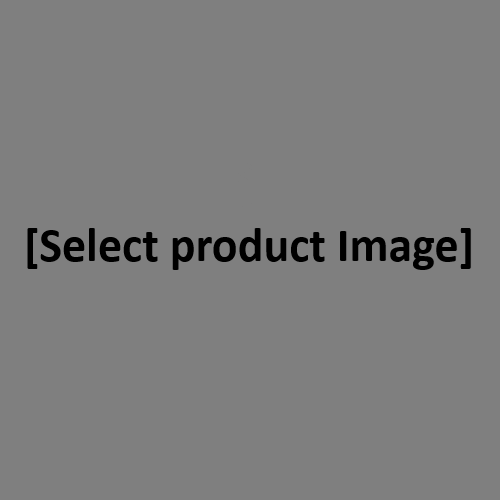
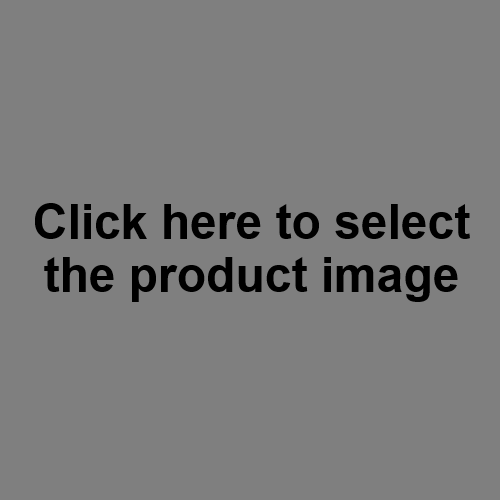
added styles & responsiveness on add-products page

Changed region(s): [[0.03, 0.39, 0.96, 0.6]]

diff --git a/src/components/pages/AddProduct/AddProduct.jsx b/src/components/pages/AddProduct/AddProduct.jsx
@@ -3,10 +3,11 @@ import Placeholder from "./../../assets/Placeholder.png";
 import { warningIcon } from "../../assets/MUI-icons";
 
 // STYLES
+import "./Product.scss";
 
 // LIBRARIES
 import { useNavigate } from "react-router-dom";
-import { Fragment, useState } from "react";
+import { Fragment, useRef, useState } from "react";
 import axios from "axios";
 
 // MISC
@@ -27,12 +28,18 @@ const AddProduct = () => {
 
   // LIBRARY CONSTANTS
   const navigate = useNavigate();
+  const fileInputRef = useRef(null);
+
+  const handleImageClick = () => {
+    fileInputRef.current.click();
+  };
 
   // STATE CONSTANTS
   const [isPending, setIsPending] = useState(false);
   const [nameError, setNameError] = useState("");
   const [priceError, setPriceError] = useState("");
   const [descError, setDescError] = useState("");
+  const [imageError, setImageError] = useState("");
   const { inputValues, handleInputChange, handleImageChange } = useForm({
     name: "",
     description: "",
@@ -61,11 +68,18 @@ const AddProduct = () => {
 
     //if price is empty or is not a number throw error
     if (inputValues.price.trim() === "") {
-      setPriceError("Select the product price");
+      setPriceError("Select the product's price");
     } else if (!priceRegex.test(inputValues.price)) {
       setPriceError("The price must be a number");
     } else {
       setPriceError("");
+    }
+
+    //if image empty throw error
+    if (inputValues.image.trim() === "") {
+      setImageError("You did not select the product image");
+    } else {
+      setImageError("");
     }
 
     //if description is empty throw error
@@ -98,54 +112,80 @@ const AddProduct = () => {
   };
 
   return (
-    <div className="add-product-container">
+    <div className="product-container">
       <h1>Add a new product</h1>
 
       <form onSubmit={handleSubmit}>
-        <div>
-          <span>Product name:</span>
-          <CustomInput type="text" name="name" value={inputValues.name} onChange={handleInputChange} />
+        <div className={nameError ? "product-fields red" : "product-fields"}>
+          <CustomInput
+            type="text"
+            name="name"
+            value={inputValues.name}
+            placeholder="Select the product name"
+            onChange={handleInputChange}
+          />
 
           {nameError && (
-            <div>
+            <div className="product-fields-error">
               {warningIcon} {nameError}
             </div>
           )}
         </div>
 
-        <div>
-          <span>Product image:</span>
+        <div className={imageError ? "product-fields red" : "product-fields"}>
+          <input
+            className="image-input"
+            type="file"
+            name="image"
+            onChange={handleImageChange}
+            style={{ display: "none" }}
+            ref={fileInputRef}
+          />
+
           {inputValues.image ? (
-            <img src={inputValues.image} alt="Selected" style={{ width: 500, height: 500 }} />
+            <img src={inputValues.image} alt="Selected" onClick={handleImageClick} />
           ) : (
-            <img src={Placeholder} alt="Placeholder" style={{ width: 500, height: 500 }} />
+            <img src={Placeholder} alt="Placeholder" onClick={handleImageClick} />
           )}
 
-          <CustomInput type="file" name="image" onChange={handleImageChange} required />
+          {imageError && (
+            <div className="product-fields-error">
+              {warningIcon} {imageError}
+            </div>
+          )}
         </div>
 
-        <div>
-          <span>Product type:</span>
+        <div className="product-fields">
           <CustomDropdown name="type" value={inputValues.type} onChange={handleInputChange} options={productType} />
         </div>
 
-        <div>
-          <span>Product price:</span>
-          <CustomInput type="text" name="price" value={inputValues.price} onChange={handleInputChange} />
+        <div className={priceError ? "product-fields red" : "product-fields"}>
+          <CustomInput
+            type="text"
+            name="price"
+            value={inputValues.price}
+            placeholder="Set the price of the product"
+            onChange={handleInputChange}
+          />
 
           {priceError && (
-            <div>
+            <div className="product-fields-error">
               {warningIcon} {priceError}
             </div>
           )}
         </div>
 
-        <div>
-          <span>Product description:</span>
-          <CustomTextArea type="text" name="description" value={inputValues.description} onChange={handleInputChange} />
+        <div className={descError ? "product-fields red" : "product-fields"}>
+          <CustomTextArea
+            type="text"
+            name="description"
+            value={inputValues.description}
+            placeholder="Enter the full product description, specifications and details"
+            onChange={handleInputChange}
+          />
 
           {descError && (
-            <div>
+            <div className="product-fields-error">
               {warningIcon} {descError}
             </div>
           )}
@@ -157,7 +197,7 @@ const AddProduct = () => {
           <Fragment>
             <CustomButton type="submit" name="Add product" />
 
-            <CustomButton type="button" name="Cancel" onClick={() => navigate("/")} />
+            <CustomButton type="button" name="Cancel" className="button-red" onClick={() => navigate("/")} />
           </Fragment>
         )}
       </form>

diff --git a/src/components/pages/AddProduct/Product.scss b/src/components/pages/AddProduct/Product.scss
@@ -1,0 +1,137 @@
+@import "../../../index.scss";
+
+.product-container {
+  padding: 16px;
+  color: $primary-white;
+  display: flex;
+  flex-direction: column;
+  gap: 16px;
+
+  h1 {
+    font-weight: normal;
+    text-align: center;
+  }
+
+  form {
+    display: flex;
+    flex-direction: column;
+    align-items: center;
+    gap: 24px;
+
+    .product-fields {
+      width: 100%;
+      display: flex;
+      flex-direction: column;
+      align-items: center;
+      gap: 4px;
+
+      img {
+        width: 500px;
+        height: 500px;
+        border-radius: 16px;
+        cursor: pointer;
+      }
+
+      input,
+      textarea,
+      select {
+        width: 60%;
+        background-color: $background-color;
+        color: $primary-white;
+        border: 1px solid $primary-blue;
+        height: 40px;
+        font-size: 16px;
+        padding-left: 16px;
+        border-radius: 8px;
+        display: flex;
+        align-self: center;
+
+        &:focus {
+          background-color: #003138;
+          outline: none;
+          border: 1px solid rgb(60, 206, 255);
+        }
+      }
+
+      textarea {
+        height: 250px;
+        padding: 8px;
+        resize: vertical;
+      }
+
+      .product-fields-error {
+        color: red;
+        font-size: 16px;
+        font-style: italic;
+        display: flex;
+        gap: 2.5px;
+
+        svg {
+          width: 20px;
+          height: 20px;
+        }
+      }
+
+      &.red {
+        input,
+        textarea {
+          border: none;
+          outline: 1px ridge red;
+
+          &:focus {
+            background-color: $background-color;
+          }
+        }
+      }
+    }
+
+    button {
+      width: 60%;
+      height: 40px;
+      border-radius: 8px;
+      background-color: $primary-blue;
+      border: none;
+      color: $primary-white;
+      font-size: 16px;
+      cursor: pointer;
+
+      &:disabled {
+        background-color: gray;
+      }
+    }
+  }
+
+  .button-red {
+    background-color: red;
+  }
+
+  @media screen and (min-width: 0px) and (max-width: 900px) {
+    h1 {
+      font-size: 24px;
+    }
+    form {
+      .product-fields {
+        input,
+        textarea,
+        select {
+          width: 100%;
+        }
+      }
+
+      button {
+        width: 100%;
+      }
+    }
+  }
+
+  @media screen and (min-width: 0px) and (max-width: 500px) {
+    form {
+      .product-fields {
+        img {
+          width: 300px;
+          height: 300px;
+        }
+      }
+    }
+  }
+}

diff --git a/src/components/layout/Header/Header.jsx b/src/components/layout/Header/Header.jsx
@@ -6,7 +6,7 @@ import { tvIcon, gamingIcon, booksIcon, foodIcon, toysIcon, furnitureIcon } from
 import "./Header.scss";
 
 // LIBRARIES
-import { useLocation, useNavigate } from "react-router-dom";
+import { useLocation, useNavigate, useParams } from "react-router-dom";
 import { useEffect, useState } from "react";
 
 // MISC
@@ -25,6 +25,7 @@ const Header = () => {
   // LIBRARY CONSTANTS
   const navigate = useNavigate();
   const location = useLocation();
+  const { id } = useParams();
   const isMobile = window.matchMedia("(max-width: 750px")?.matches;
 
   // STATE CONSTANTS
@@ -33,9 +34,17 @@ const Header = () => {
 
   // LIFE CYCLE
   useEffect(() => {
-    if (location.pathname === "/") {
+    if (
+      location.pathname === "/" ||
+      location.pathname === "/add-product" ||
+      location.pathname === "/orders" ||
+      location.pathname === "/favorites" ||
+      location.pathname === `/product/${id}`
+    ) {
       setActive(false);
     }
+
+    // eslint-disable-next-line
   }, [location]);
 
   // EVENT HANDLERS

diff --git a/src/components/cards/ProductCard.jsx b/src/components/cards/ProductCard.jsx
@@ -53,7 +53,6 @@ const ProductCard = (props) => {
             onClick={() => navigate(`/product/${product.id}`, { state: { currentCategory: category } })}
             src={product.image}
             alt="N/a"
-            style={{ width: 230, height: 230 }}
           />
 
           <CustomButton type="button" onClick={handleFavorite}>

diff --git a/src/components/layout/Header/Header.scss b/src/components/layout/Header/Header.scss
@@ -85,6 +85,7 @@
         top: 45px;
         padding: 0 8px 8px 8px;
         cursor: default;
+        z-index: 2;
 
         .dropdown-icon {
           display: flex;

diff --git a/src/components/cards/ProductCard.scss b/src/components/cards/ProductCard.scss
@@ -24,6 +24,9 @@
 
       img {
         border-radius: 8px;
+        height: 230px;
+        width: 230px;
+        cursor: pointer;
       }
 
       button {
